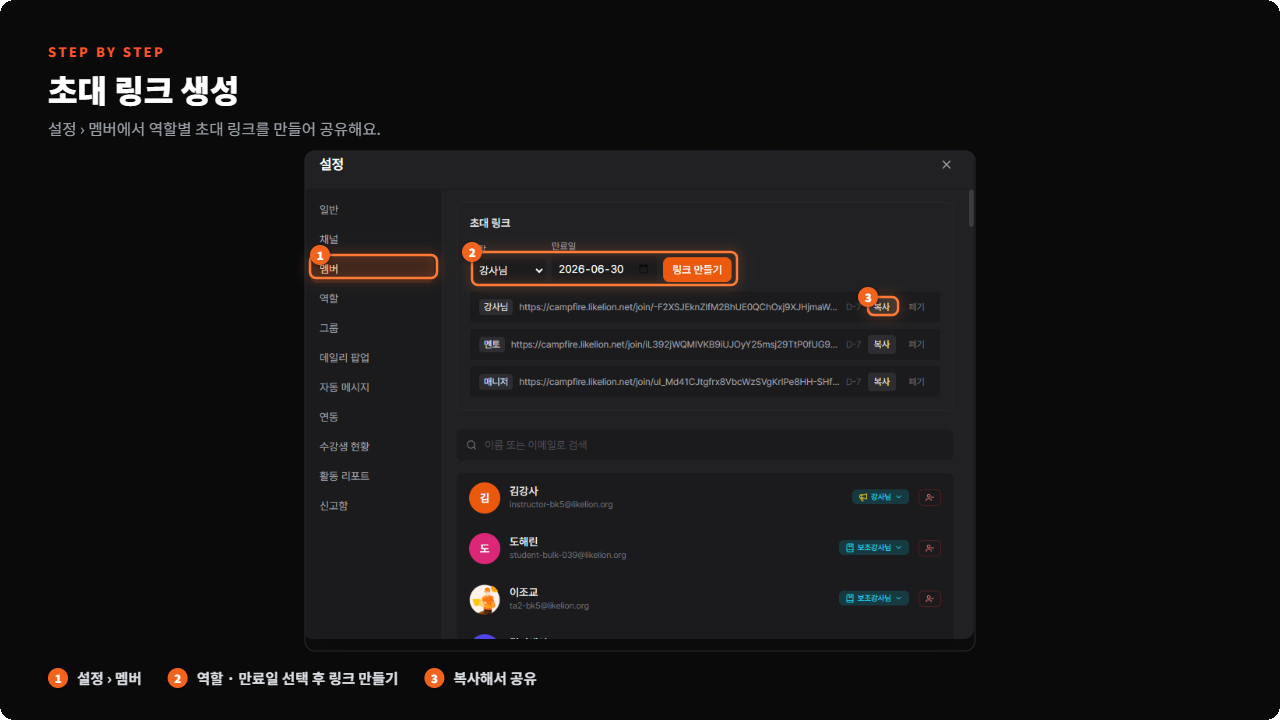
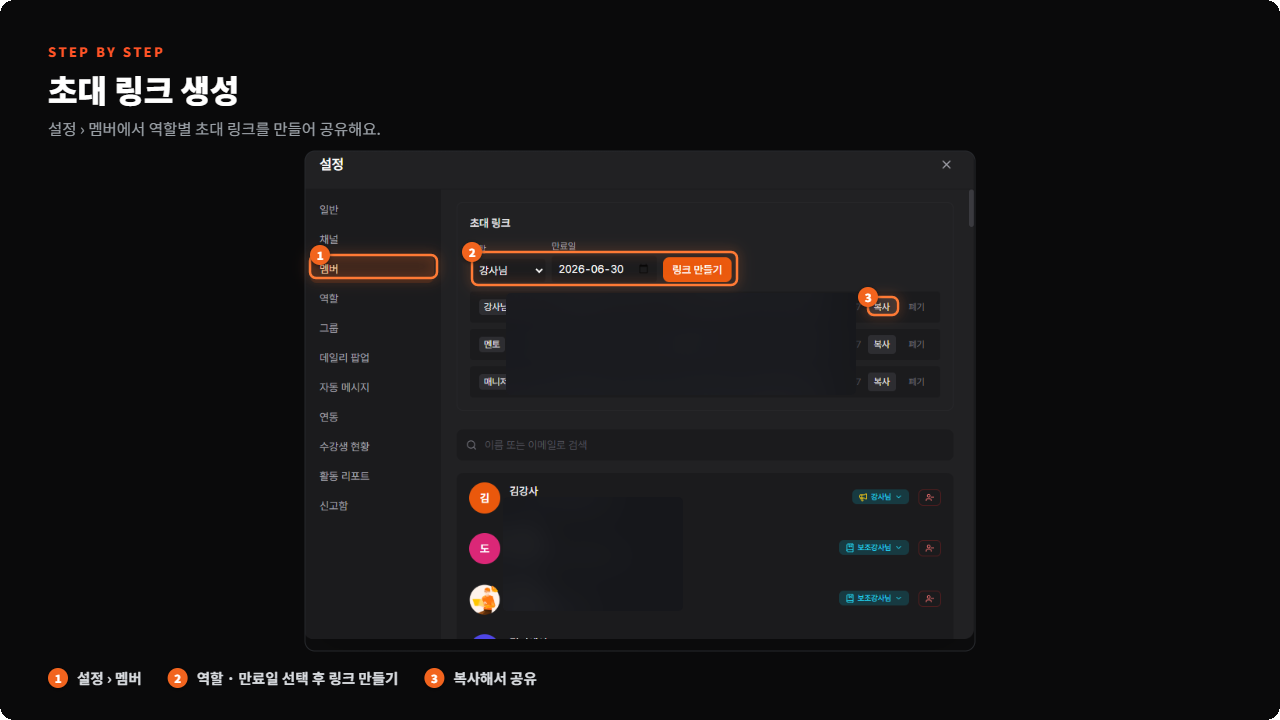
feat(campfire): 1:1 통화·알림 설정 가이드 추가 + 민감정보 마스킹
- 1:1 통화(DM 음성·화상) 섹션 신설(매니저·강사·수강생) + 합본 스크린샷
- 알림 설정 섹션 신설(기본 '멘션만' + 채널별 케밥 메뉴) + 스크린샷 2종
- 보안: 스크린샷 내 초대 링크 토큰·회사 이메일 블러 마스킹 (초대링크·권한설정·프로필·기본알림)

diff --git a/campfire/1-planning/campfire-guide/manager-data.js b/campfire/1-planning/campfire-guide/manager-data.js
@@ -116,6 +116,19 @@ const GUIDE_DATA = [
           <div class="callout callout--warn"><span class="callout__ico">⚠</span><div>표시 이름은 누구나 자유롭게 변경할 수 있으므로, 가입 시 자동 설정된 실명을 그대로 유지하도록 <strong>기수 시작 시 안내</strong>하는 것을 권장합니다.</div></div>
         `,
       },
+      {
+        id: "s2-4", title: "알림 설정",
+        html: `
+          <p><strong>프로필(좌측 하단) → 프로필 설정 → 알림 탭</strong>에서 알림 수준을 조정합니다. (모든 역할 공통)</p>
+          <ul>
+            <li><strong>기본값은 '멘션만'</strong>입니다 — 나를 @멘션할 때만 알림이 와요. (필요하면 '전체 메시지' 또는 '끄기'로 변경)</li>
+            <li><strong>채널별 개별 설정</strong>: 사이드바에서 <strong>채널에 마우스를 올리면 나타나는 케밥 메뉴(⋮)</strong>를 클릭 → 해당 채널만 알림을 따로 설정(전체/멘션만/끄기)할 수 있어요.</li>
+          </ul>
+          <div class="callout callout--tip"><span class="callout__ico">💡</span><div>📢 공지 채널은 <strong>'전체 메시지'</strong>로 켜두면 중요한 운영 안내를 놓치지 않아요.</div></div>
+          <div class="shot">📸 스크린샷: 기본 알림 설정 (프로필 > 설정 > 알림 — 멘션만)</div>
+          <div class="shot">📸 스크린샷: 채널별 알림 설정 (채널 케밥 메뉴)</div>
+        `,
+      },
     ],
   },
 
@@ -350,6 +363,19 @@ const GUIDE_DATA = [
             <li>메시지 [⋯ 더보기]: 텍스트 복사 / 링크 복사 / 고정 / 차단 / 신고 / 삭제</li>
           </ul>
           <div class="shot">📸 스크린샷: 더보기 — 고정 메뉴 + 고정 패널 / 스레드 패널</div>
+        `,
+      },
+      {
+        id: "s6-4", title: "1:1 통화 (DM 음성·화상)",
+        html: `
+          <p><strong>다이렉트 메시지(DM·1:1 대화)에서만</strong> 상대에게 음성·화상 통화를 걸 수 있습니다. (채널에서는 사용 불가, 모든 역할 공통)</p>
+          <ol>
+            <li>상대와의 <strong>DM 화면 상단, 이름 옆 📞(음성)·📹(화상) 아이콘</strong> 클릭</li>
+            <li>확인 다이얼로그에서 <strong>[통화 걸기]</strong> → 상대에게 통화 요청 발송</li>
+            <li>상대는 <strong>수신 화면</strong>에서 <strong>수락(초록)/거절(빨강)</strong>을 선택</li>
+          </ol>
+          <div class="callout callout--tip"><span class="callout__ico">💡</span><div>통화 후 DM에 <strong>'통화 시작/종료'</strong> 기록이 남고, 안 받으면 <strong>'부재중 통화'</strong>로 표시돼요. 수강생 1:1 응대에 활용하세요.</div></div>
+          <div class="shot">📸 스크린샷: DM 1:1 통화 (걸기 · 다이얼로그 · 수신)</div>
         `,
       },
     ],

diff --git a/campfire/1-planning/campfire-guide/student-data.js b/campfire/1-planning/campfire-guide/student-data.js
@@ -59,6 +59,16 @@ const GUIDE_DATA = [
             <li>📢 <strong>공지 채널 알림은 꼭 켜주세요!</strong> 일정 변경·과제 마감 등 중요한 안내를 놓치지 않으려면 필수예요.</li>
           </ul>
           <div class="shot">📸 스크린샷: 프로필 > 캠프파이어 앱 받기</div>` },
+      { id:"s2-4", title:"알림 설정",
+        html:`
+          <p><strong>왼쪽 아래 프로필 → 프로필 설정 → 알림 탭</strong>에서 알림을 조정할 수 있어요.</p>
+          <ul>
+            <li><strong>기본은 '멘션만'</strong>으로 되어 있어요 — 나를 @멘션할 때만 알림이 와요. ('전체 메시지'로 켜거나 '끄기'도 가능)</li>
+            <li><strong>채널별로 다르게</strong>: 사이드바에서 <strong>채널에 마우스를 올리면 생기는 케밥(⋮) 메뉴</strong>를 눌러 그 채널만 따로 설정할 수 있어요.</li>
+          </ul>
+          <div class="callout callout--tip"><span class="callout__ico">💡</span><div>📢 <strong>공지 채널은 '전체 메시지'로 켜두기!</strong> 일정·과제 안내를 놓치지 않아요.</div></div>
+          <div class="shot">📸 스크린샷: 기본 알림 설정 (프로필 > 설정 > 알림 — 멘션만)</div>
+          <div class="shot">📸 스크린샷: 채널별 알림 설정 (채널 케밥 메뉴)</div>` },
     ],
   },
   {
@@ -109,6 +119,16 @@ const GUIDE_DATA = [
             <li><strong>코드는 코드 블록으로!</strong> 백틱 3개로 코드를 감싸면 코드 블록으로 보여요. 단, 언어별 색상 강조는 아직 지원되지 않아 <strong>단색</strong>으로 표시돼요(읽는 데는 문제없어요).</li>
           </ul>
           <div class="shot">📸 스크린샷: 파일 업로드</div>` },
+      { id:"s4-4", title:"1:1 통화 (DM 음성·화상)",
+        html:`
+          <p><strong>다이렉트 메시지(DM·1:1 대화)에서만</strong> 음성·화상 통화를 걸 수 있어요. (채널에서는 안 돼요)</p>
+          <ol>
+            <li>대화 상대와의 <strong>DM 화면 상단, 이름 옆 📞(음성)·📹(화상) 아이콘</strong>을 눌러요</li>
+            <li>확인 창에서 <strong>[통화 걸기]</strong>를 누르면 상대에게 요청이 가요</li>
+            <li>상대 화면에 <strong>수신 화면</strong>이 떠요 — <strong>초록(수락)/빨강(거절)</strong>으로 받거나 거절해요</li>
+          </ol>
+          <div class="callout callout--tip"><span class="callout__ico">💡</span><div>통화가 끝나면 DM에 '통화 시작/종료' 기록이 남아요. 못 받으면 '부재중 통화'로 표시돼요.</div></div>
+          <div class="shot">📸 스크린샷: DM 1:1 통화 (걸기 · 다이얼로그 · 수신)</div>` },
     ],
   },
   {

diff --git a/campfire/1-planning/campfire-guide/instructor-data.js b/campfire/1-planning/campfire-guide/instructor-data.js
@@ -70,6 +70,16 @@ const GUIDE_DATA = [
             <li>입장 후 화상 패널에서 음소거/카메라를 직접 켜고 끔</li>
           </ul>
           <div class="shot">📸 스크린샷: 강의 입장 화면의 장치 선택 드롭다운</div>` },
+      { id:"i2-4", title:"알림 설정",
+        html:`
+          <p><strong>프로필(좌측 하단) → 프로필 설정 → 알림 탭</strong>에서 알림 수준을 조정해요. (모든 역할 공통)</p>
+          <ul>
+            <li><strong>기본값은 '멘션만'</strong> — 나를 @멘션할 때만 알림이 와요. (필요하면 '전체 메시지'·'끄기'로 변경)</li>
+            <li><strong>채널별 개별 설정</strong>: 사이드바에서 <strong>채널에 마우스를 올리면 나타나는 케밥(⋮) 메뉴</strong>를 클릭 → 그 채널만 알림을 따로 설정.</li>
+          </ul>
+          <div class="callout callout--tip"><span class="callout__ico">💡</span><div>질문 채널처럼 답변이 필요한 곳은 <strong>'전체 메시지'</strong>로 켜두면 놓치지 않아요.</div></div>
+          <div class="shot">📸 스크린샷: 기본 알림 설정 (프로필 > 설정 > 알림 — 멘션만)</div>
+          <div class="shot">📸 스크린샷: 채널별 알림 설정 (채널 케밥 메뉴)</div>` },
     ],
   },
   {
@@ -190,6 +200,16 @@ const GUIDE_DATA = [
             <li><strong>이해 확인</strong>: [이해 확인] 버튼 → 수강생 화면에 '👍 이해 / 🤔 어려움' 팝업. 응답을 모아 실시간 이해도 파악, '어려움'이 많으면 보충·속도 조절.</li>
             <li><strong>이모지 리액션</strong>으로도 빠르게 이해도 체크 (예: ✅)</li>
           </ul>` },
+      { id:"i6-1", title:"1:1 통화 (DM 음성·화상)",
+        html:`
+          <p><strong>다이렉트 메시지(DM·1:1 대화)에서만</strong> 음성·화상 통화를 걸 수 있어요. (채널에서는 불가, 모든 역할 공통)</p>
+          <ol>
+            <li>상대와의 <strong>DM 상단, 이름 옆 📞(음성)·📹(화상) 아이콘</strong> 클릭</li>
+            <li>확인 다이얼로그에서 <strong>[통화 걸기]</strong> → 요청 발송</li>
+            <li>상대는 <strong>수신 화면</strong>에서 <strong>수락/거절</strong>을 선택</li>
+          </ol>
+          <div class="callout callout--tip"><span class="callout__ico">💡</span><div>통화 후 DM에 '통화 시작/종료' 기록이 남고, 안 받으면 '부재중 통화'로 표시돼요. 수강생 개별 피드백·상담에 활용하세요.</div></div>
+          <div class="shot">📸 스크린샷: DM 1:1 통화 (걸기 · 다이얼로그 · 수신)</div>` },
     ],
   },
   {

diff --git a/campfire/1-planning/campfire-guide/images/_README-스크린샷-목록.md b/campfire/1-planning/campfire-guide/images/_README-스크린샷-목록.md
@@ -7,6 +7,8 @@
 | 파일 | 위치 | 내용 | |
 |---|---|---|---|
 | `manager-s2-1-1.png` | 2.시작하기 · 계정 & 입장 구조 이해하기 | 프로필 > 캠프파이어 앱 받기 모달 | ✅ |
+| `manager-s2-4-1.png` | 2.시작하기 · 알림 설정 | 기본 알림 설정 (프로필 > 설정 > 알림 — 멘션만) | ✅ |
+| `manager-s2-4-2.png` | 2.시작하기 · 알림 설정 | 채널별 알림 설정 (채널 케밥 메뉴) | ✅ |
 | `manager-s3-1-1.png` | 3.화면 구성 · 화면 한눈에 보기 | 전체 화면에 ①~⑤ 번호를 오버레이한 이미지 1장 | ✅ |
 | `manager-s4-2-1.png` | 4.채널 관리 · 채널 만들기 | [+] 버튼 위치 / 채널 만들기 모달 / 비공개 설정 + 멤버·그룹 초대 | ✅ |
 | `manager-s4-3-1.png` | 4.채널 관리 · 채널 권한 설정 (공개·비공개·익명) | 채널 권한 설정 화면 | ✅ |
@@ -15,6 +17,7 @@
 | `manager-s5-2-1.png` | 5.멤버 & 권한 관리 · 역할(Role) 부여하기 | 멤버에게 역할 부여하는 화면 | ✅ |
 | `manager-s6-2-1.png` | 6.공지 & 메시지 운영 · 데일리 팝업 (입장 시 노출 공지) | 데일리 팝업 편집 화면 | ✅ |
 | `manager-s6-3-1.png` | 6.공지 & 메시지 운영 · 메시지 핀 고정 & 스레드 | 더보기 — 고정 메뉴 + 고정 패널 / 스레드 패널 | ✅ |
+| `manager-s6-4-1.png` | 6.공지 & 메시지 운영 · 1:1 통화 (DM 음성·화상) | DM 1:1 통화 (걸기 · 다이얼로그 · 수신) | ✅ |
 | `manager-s7-2-1.png` | 7.화상 세션 운영 · 강의 열기 (정식 강의) | 강의 열기 및 참여 화면 (AI 요약 활성화 체크박스) | ✅ |
 | `manager-s7-5-1.png` | 7.화상 세션 운영 · 수강생 호출 (미입장자 알림) | 더보기 > 수강생 호출 → 메시지 작성·발송 | ✅ |
 | `manager-s7-3-1.png` | 7.화상 세션 운영 · 녹화 & AI 요약 | 강의 > 녹화 탭 목록 | ✅ |
@@ -23,7 +26,7 @@
 | `manager-s8-5-1.png` | 8.운영 팁 모음 · 공간 기본 설정 (설정 > 일반) | 설정 > 일반 — 홈페이지 URL·배너 | ✅ |
 | `manager-s8-6-1.png` | 8.운영 팁 모음 · 카메라 자동 캡처 (출석 확인) | 설정 > 일반 — 카메라 자동 캡처 규칙·제외일 | ✅ |
 
-→ 매니저: 16장
+→ 매니저: 19장
 
 ## 강사 (instructor-data.js)
 
@@ -32,6 +35,8 @@
 | `instructor-i1-1-1.png` | 1.캠프파이어 한눈에 보기 · 강사 권한 경계 ⭐ 가장 먼저 확인 | 캠프파이어 입장 화면 | ✅ |
 | `instructor-i2-1-1.png` | 2.시작하기 · 입장 방법 | 프로필 > 캠프파이어 앱 받기 | ✅ |
 | `instructor-i2-3-1.png` | 2.시작하기 · 오디오 / 비디오 장치 점검 ⭐ 첫 수업 전 필수 | 강의 입장 화면의 장치 선택 드롭다운 | ✅ |
+| `instructor-i2-4-1.png` | 2.시작하기 · 알림 설정 | 기본 알림 설정 (프로필 > 설정 > 알림 — 멘션만) | ✅ |
+| `instructor-i2-4-2.png` | 2.시작하기 · 알림 설정 | 채널별 알림 설정 (채널 케밥 메뉴) | ✅ |
 | `instructor-i3-0-1.png` | 3.화면 구성 (강사 시점) · 화면 한눈에 보기 | 강사 화면 전체, ①~④ 번호 오버레이 | ✅ |
 | `instructor-i4-0-1.png` | 4.수업 전 준비 · 수업 전 체크리스트 | 파일 업로드(📎) 화면 | ✅ |
 | `instructor-i5-1-1.png` | 5.화상 수업 진행하기 ⭐ · 강의 시작하기 | 강의 열기 및 참여 화면 | ✅ |
@@ -39,8 +44,9 @@
 | `instructor-i5-2-1.png` | 5.화상 수업 진행하기 ⭐ · 화면 공유 | 화면 공유 선택 모달 | ✅ |
 | `instructor-i5-3-1.png` | 5.화상 수업 진행하기 ⭐ · 세션 컨트롤 & 참가자 관리 | 더보기 메뉴 + 참가자 패널 | ✅ |
 | `instructor-i5-5-1.png` | 5.화상 수업 진행하기 ⭐ · 녹화 & AI 요약 | 강의 > 녹화 탭 | ✅ |
+| `instructor-i6-1-1.png` | 6.수업 중 소통 · 1:1 통화 (DM 음성·화상) | DM 1:1 통화 (걸기 · 다이얼로그 · 수신) | ✅ |
 
-→ 강사: 10장
+→ 강사: 13장
 
 ## 수강생 (student-data.js)
 
@@ -49,14 +55,17 @@
 | `student-s2-1-1.png` | 2.시작하기 (첫날 따라하기) ⭐ · 입장하기 (가장 먼저!) | 내 강의실 캠프파이어 입장하기 버튼 | ✅ |
 | `student-s2-2-1.png` | 2.시작하기 (첫날 따라하기) ⭐ · 프로필 설정하기 | 프로필 설정 화면 | ✅ |
 | `student-s2-3-1.png` | 2.시작하기 (첫날 따라하기) ⭐ · 더 편하게 쓰기 (앱 & 알림) | 프로필 > 캠프파이어 앱 받기 | ✅ |
+| `student-s2-4-1.png` | 2.시작하기 (첫날 따라하기) ⭐ · 알림 설정 | 기본 알림 설정 (프로필 > 설정 > 알림 — 멘션만) | ✅ |
+| `student-s2-4-2.png` | 2.시작하기 (첫날 따라하기) ⭐ · 알림 설정 | 채널별 알림 설정 (채널 케밥 메뉴) | ✅ |
 | `student-s3-0-1.png` | 3.화면 둘러보기 · 화면 구성 & 주요 채널 | 전체 화면 + ①~③ 번호 표시 | ✅ |
 | `student-s4-2-1.png` | 4.채팅 사용하기 · 스레드 — 질문할 때 이렇게! | 스레드 열기 버튼 | ✅ |
 | `student-s4-3-1.png` | 4.채팅 사용하기 · 파일 & 코드 올리기 | 파일 업로드 | ✅ |
+| `student-s4-4-1.png` | 4.채팅 사용하기 · 1:1 통화 (DM 음성·화상) | DM 1:1 통화 (걸기 · 다이얼로그 · 수신) | ✅ |
 | `student-s5-1-1.png` | 5.화상 수업 참여하기 ⭐ · 수업 입장 | [강의] 버튼(Live) + 입장 직후 마이크/카메라 버튼 | ✅ |
 | `student-s5-4-1.png` | 5.화상 수업 참여하기 ⭐ · 강의 초대 받고 입장하기 | 강의 초대 알림 (입장하기 버튼) | ✅ |
 | `student-s5-2-1.png` | 5.화상 수업 참여하기 ⭐ · 수업 중 기능 (화면 아래 버튼들) | 이해도 체크 (강사 진행 / 수강생 응답) | ✅ |
 
-→ 수강생: 9장
+→ 수강생: 12장
 
 ---
-**총 35장 중 35장 완료**
+**총 44장 중 44장 완료**
